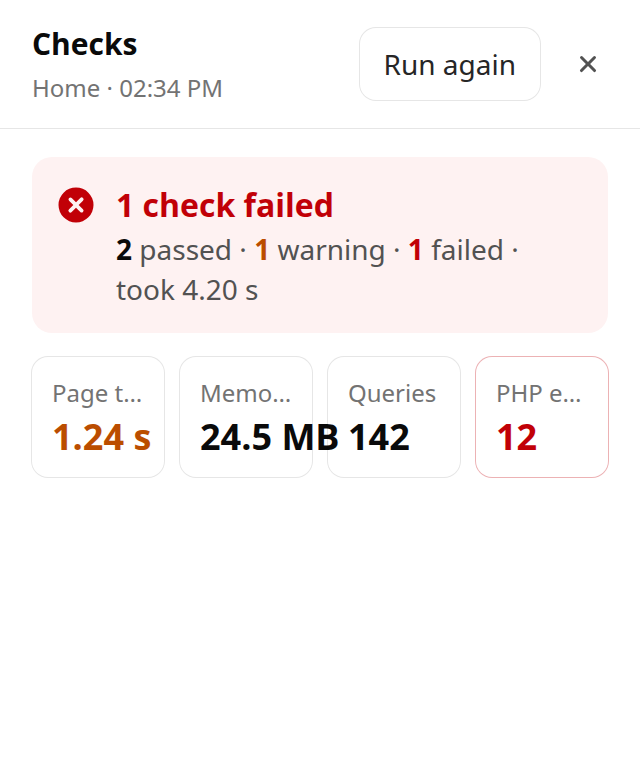
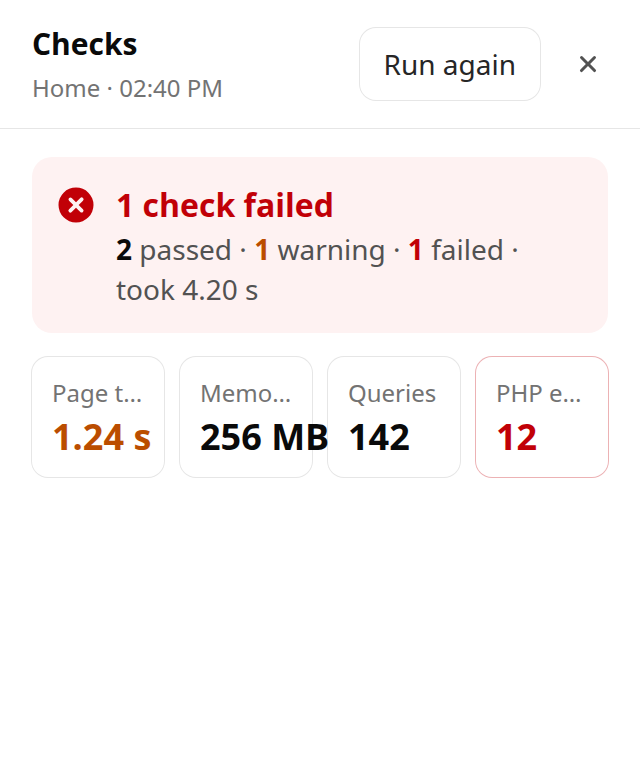
Docs: Checks evidence with values the app shows; round 2 review notes (TOOLS-396)

Changed region(s): [[0.3438, 0.5447, 0.5312, 0.6053], [0.2188, 0.0908, 0.2812, 0.1513]]

diff --git a/docs/changes/2026-11-21-playground-0-11-1-small-fixes.md b/docs/changes/2026-11-21-playground-0-11-1-small-fixes.md
@@ -12,7 +12,7 @@
 Four small defects were left after 0.11.0:
 
 - When the update step ran and every update failed, the Updates note heading still said **Updated at start** (`src/UpdatesControl.jsx`), while the button and its tooltip already said the update failed.
-- In the Checks panel, the four numbers sat in four columns until the window was narrower than 399 px. At 640 px with the browser text at 200%, `24.5 MB` ran 27.5 px out of its tile into the next one.
+- In the Checks panel, the four numbers sat in four columns until the window was narrower than 399 px. At 640 px with the browser text at 200%, a memory value of `256 MB` ran 17.3 px out of its tile into the next one (`1024 MB` 37.9 px).
 - With reduce motion on, the updates and checks spinner kept turning, only slower (`spin 2.4s`).
 - TOOLS-392: on a full bar at 320 px (`· 10 of 12 active`, `12 warnings`, an update result), Close's right edge was at 335.3 to 363.3 px, so up to about 43 px of it was off screen. The previous record left this as Lex chose on 2026-11-21; TOOLS-392 asks for Close to be fully visible and tappable.
 
@@ -48,8 +48,8 @@ Four small defects were left after 0.11.0:
 | Node 24, before the fix (9b98dcf, tests only on `dev` 4a346b2) | `node --test --test-reporter=spec src/lib/plugin-updates.test.js src/updates-control.test.js src/bar-compact-labels.test.js` | The five new tests fail | 23 tests: 18 passed, 5 failed (note heading helper, heading in the note, still spinner, tighter bar below the breakpoint, Checks tiles by panel width) | The three test files |
 | Node 24, the breakpoint test after review | `bar-compact-labels.test.js` expecting `--breakpoint-xs: 24rem;`, run against the 22.5rem CSS | Fails | Failed, then passed with 24rem | `src/bar-compact-labels.test.js` |
 | Node 24, after the fix | The same three files; then `npm test`; then `scripts/agents/kit unit --affected` | All pass | 24 passed, 0 failed (with the new `updatesOnlyFailed` test); `npm test` 286 passed, 0 failed; `RESULT: ok unit` | Same files |
-| Headless Chrome (playwright-core with Chrome), `dev` 4a346b2 → this branch | A throwaway script renders a copy of the App bar with the real `UpdatesControl` and `ChecksButton`, the Updates note, the Checks panel and the spinner to static markup with each build's CSS, and measures them in the page: six update states (networking blocked, step failed, one update and two failures, every update failed, a long name, 12 updates and 2 failures) on a normal and a full bar at 320, 340, 360, 375, 383, 384, 390, 640, 641, 767, 768, 1040, 1041 and 1280 px | Close inside the screen below 384 px; no change from 384 px up | Full bar at 320 px, Close's right edge: networking blocked and step failed 341.3 → 312.0, one update and two failures and every update failed 355.3 → 312.0, long name 335.3 → 312.0, 12 updates and 2 failures 363.3 → 313.3; the page width 346/360/340/368 → 320. At 340 px the same cases 341.3/355.3/335.3/363.3 → 332.0. At 360 px, 12 updates and 2 failures 363.3 → 352.0. Every render is one line, a tap at Close's centre reaches Close, and no two buttons overlap. From 384 px up all 108 renders are identical before and after | ![Before: full bar at 320 px, Close cut](assets/2026-11-21-tools-396-close-320-before.png) ![After: full bar at 320 px, Close inside](assets/2026-11-21-tools-396-close-320-after.png) |
-| Same script | The Checks panel after a run at 640 px with `html { font-size: 200% }`, and at 1280 px 200%, 640/400/399/320 px 100%, 320 px 200%, each with the sample values and with wide values (`12.3 s`, `1024 MB`, `1234`, `123`); columns counted and each number's overflow past its tile measured | No number outside its tile; four columns at 400 px and up with normal text | 640 px 200%: 4 columns with `24.5 MB` 27.5 px outside → 2 columns, 0 px outside. 1280 px 100% and 200%, 640 and 400 px 100%: 4 columns, 0 outside. 399 px 100%: 4 → 2 columns. 320 px: 2 columns. Wide values: 0 px outside in every case | ![Before: 640 px at 200% text](assets/2026-11-21-tools-396-checks-640-200-before.png) ![After: 640 px at 200% text](assets/2026-11-21-tools-396-checks-640-200-after.png) |
+| Headless Chrome (playwright-core with Chrome), `dev` 4a346b2 → this branch | A throwaway script renders a copy of the App bar with the real `UpdatesControl` and `ChecksButton`, the Updates note, the Checks panel and the spinner to static markup with each build's CSS, and measures them in the page: six update states (networking blocked, step failed, one update and two failures, every update failed, a long name, 12 updates and 2 failures) on a normal and a full bar at 320, 340, 360, 375, 383, 384, 390, 640, 641, 767, 768, 1040, 1041 and 1280 px | Close inside the screen below 384 px; no change from 384 px up | Full bar at 320 px, Close's right edge: networking blocked and step failed 341.3 → 312.0, one update and two failures and every update failed 355.3 → 312.0, long name 335.3 → 312.0, 12 updates and 2 failures 363.3 → 313.3 (the buttons reach 1.3 px into the bar's 8 px right padding, still inside the screen); the page width 346/360/340/368 → 320. At 340 px the same cases 341.3/355.3/335.3/363.3 → 332.0. At 360 px, 12 updates and 2 failures 363.3 → 352.0. Every render is one line, a tap at Close's centre reaches Close, and no two buttons overlap. From 384 px up all 108 renders are identical before and after | ![Before: full bar at 320 px, Close cut](assets/2026-11-21-tools-396-close-320-before.png) ![After: full bar at 320 px, Close inside](assets/2026-11-21-tools-396-close-320-after.png) |
+| Same script | The Checks panel after a run at 640 px with `html { font-size: 200% }`, and at 1280 px 200%, 640/400/399/320 px 100%, 320 px 200%, each with values the app shows (`1.24 s`, `256 MB`, `142`, `12`; memory is rounded to whole megabytes) and with wide values (`12.3 s`, `1024 MB`, `1234`, `123`); columns counted and each number's overflow past its tile measured | No number outside its tile; four columns at 400 px and up with normal text | 640 px 200%: 4 columns with `256 MB` 17.3 px outside → 2 columns, 0 px outside; wide values 4 columns with `1024 MB` 37.9 px outside → 2 columns, 0 px outside. 1280 px 100% and 200%, 640 and 400 px 100%: 4 columns, 0 outside, before and after. 399 px 100%: 4 → 2 columns. 320 px: 2 columns, 0 outside, before and after | ![Before: 640 px at 200% text](assets/2026-11-21-tools-396-checks-640-200-before.png) ![After: 640 px at 200% text](assets/2026-11-21-tools-396-checks-640-200-after.png) |
 | Same script, Chrome with reduced motion emulated | The bar's Updates spinner and the panel's `Running checks…` spinner; computed `animation` | No animation with reduce motion; turning without | Reduce: `spin 2.4s` → `none`. No preference: `spin 1s` before and after | ![Reduce motion on: both spinners still](assets/2026-11-21-tools-396-spinner-reduce-motion.png) |
 | Same script | The Updates note heading for each of the six states | Every update failed says it failed; the others unchanged | Every update failed: `Updated at start` → `Updates failed at start`. Networking blocked and step failed: `Updates at start`; the rest: `Updated at start` (unchanged) | ![Every update failed, the note](assets/2026-11-21-tools-396-note-all-failed.png) |
 
@@ -63,6 +63,12 @@ Four small defects were left after 0.11.0:
 - Declined: "0.11.1 on top of an unreleased 0.11.0". 0.11.0 shipped with PR #53 (merged 2026-11-21 13:01 UTC) and is on `main`.
 - Declined: a test that compiles the Tailwind classes. The project's tests read the source; the browser measurement above runs on the built CSS and shows the classes apply.
 - Declined: the tests matching class order. They follow the style of the rest of `bar-compact-labels.test.js`.
+
+### Review round 2 (`kit review`, Claude Opus 5.5)
+
+- Fixed: `docs/testing.md` now names the "only failed" test.
+- Fixed: the Checks example used `24.5 MB`, which the app never shows; the measurement now uses `256 MB` and `1024 MB` on both builds.
+- Fixed nit: the record says Close at 313.3 px uses the bar's padding.
 
 ## Result
 
